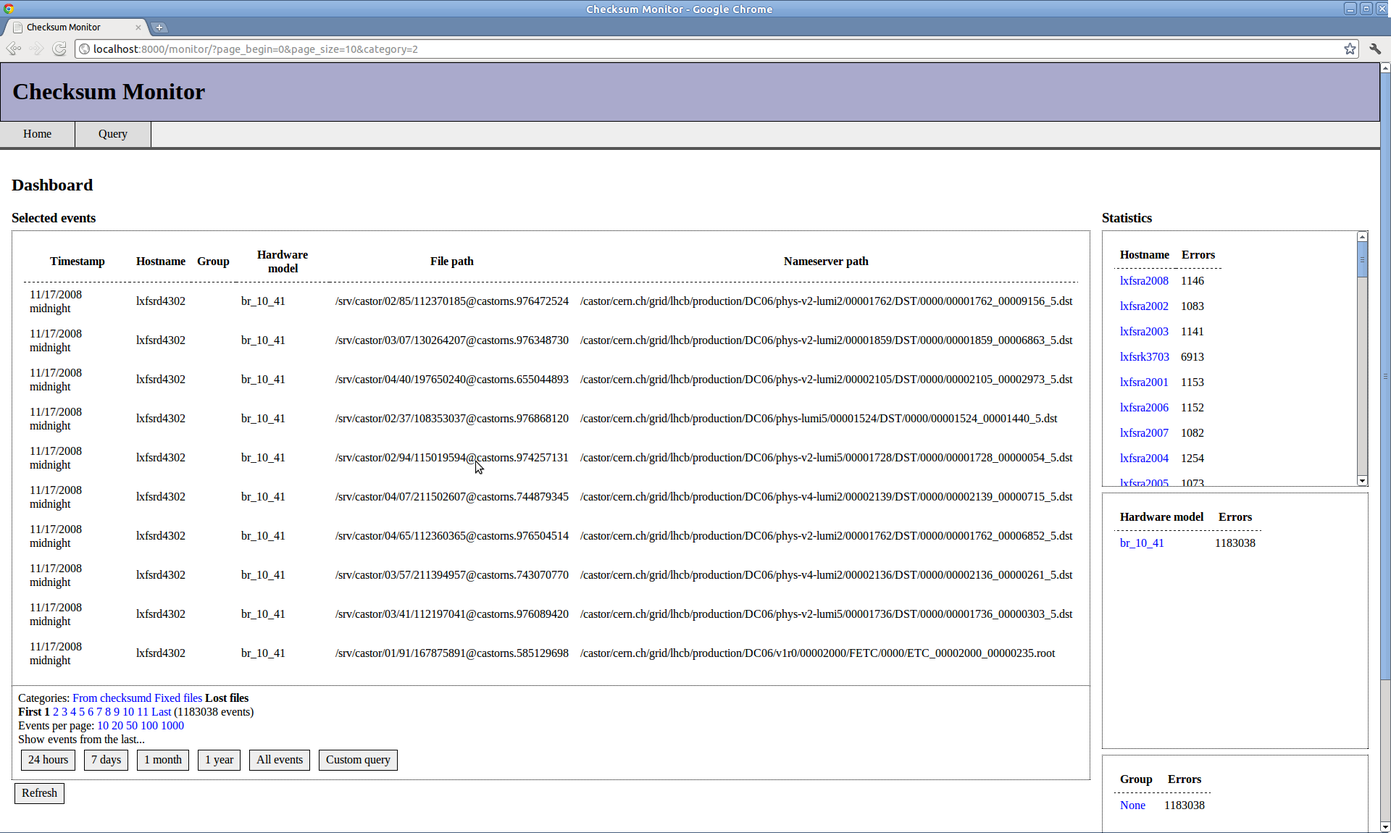
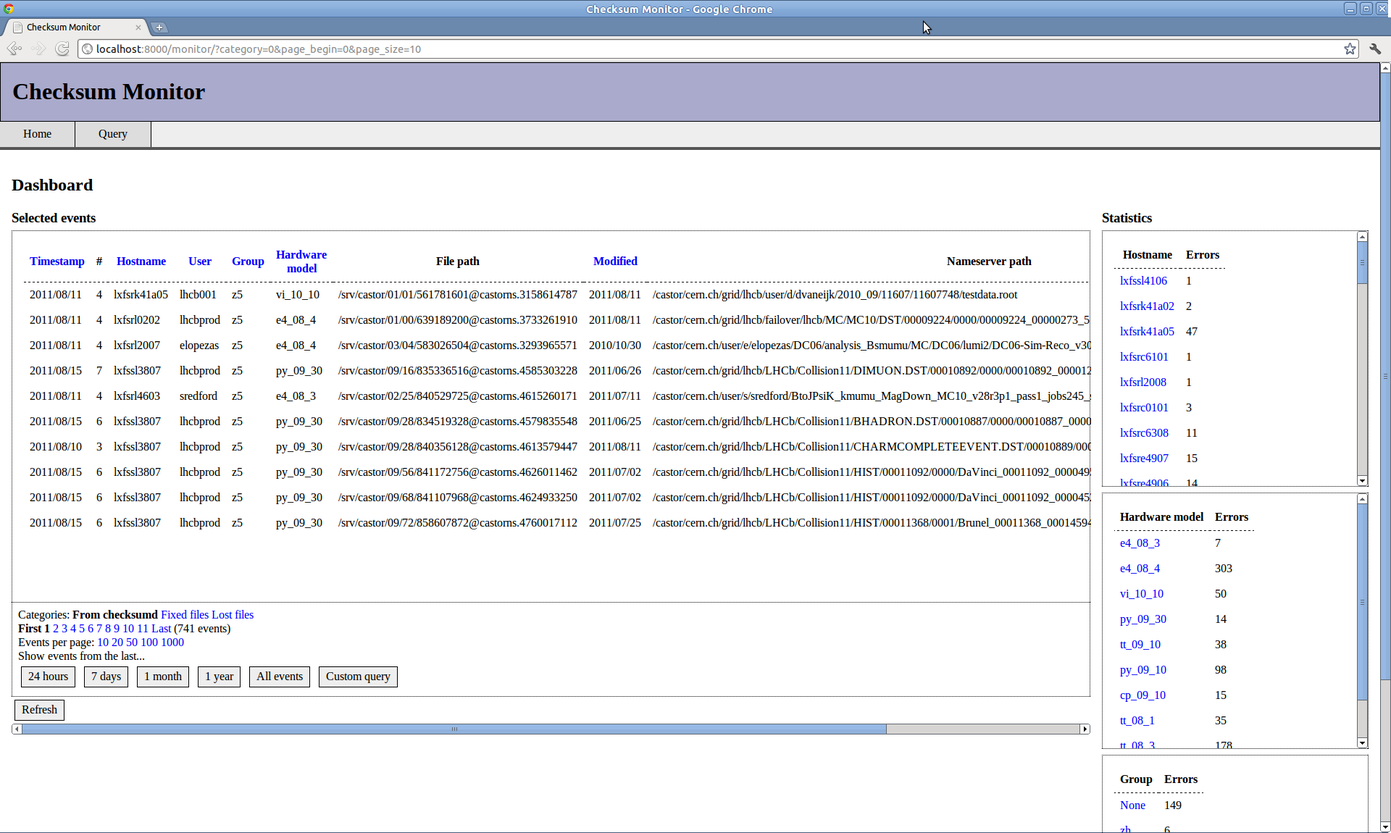
Updated report

diff --git a/implementation.tex b/implementation.tex
@@ -1,31 +1,38 @@
 \section{Implementation}
-This section will go into detail about the implementations of checksumd and checksum-monitor: classes, design patterns, etc. In addition, the integration with Lemon is briefly described.
+This section goes into detail about the implementations of checksumd and checksum-monitor: classes, design patterns, etc. In addition, the integration with Lemon is briefly described.
 
 \subsection{checksumd}
 
 \subsubsection{Disk and DiskQueue objects}
 As mentioned in section \ref{sec:checksumd_overview}, disks are kept in a queue, and each disk has a list of files as well as indices pointing to the next file. The root directory of the scan, specified when running the daemon (default /srv/castor if nothing is specified) is assumed to contain folders that are mount points for different disks. A Disk object is then created for each of these mount points, which contain the mount point, an index to the next file and a list of absolute paths of files on that disk. Whenever the next file on the disk is requested (by calling {\tt Disk.get\_next\_file()}), the file at the current index is returned, and the index is incremented.
 
-At certain intervals, the file lists are refreshed for each disk. When the file list is refreshed, a cleanup is performed first, which traverses the current file list and removes all files that no longer exist or that have been modified recently, after it was added to the list. Then, the Disk objects first get a full list of all the files on the disk (by recursively traversing the directories). Files that doesn't match certain criteria, e.g. files that was modified recently, is not included. This new list of files is then traversed. For each file, if it is in the file list already, it's ignored. If not, it's added. A hash map is used to keep track of which files are currently in the file list; this is due to the must faster lookup in a hash map than a list.
+At certain intervals, the file lists are refreshed for each disk. When the file list is refreshed, a cleanup is performed first, which traverses the current file list and removes all files that no longer exist or that have been modified recently, after they were added to the list. Then, the Disk objects first get a full list of all the files on the disk (by recursively traversing the directories). Files that don't match certain criteria, e.g. files that were modified recently, are not included. This new list of files is then traversed. For each file, if it is in the file list already, it's ignored. If not, it's added. A hash map is used to keep track of which files are currently in the file list; this is due to the much faster lookup in a hash map than a list.
 
-The DiskQueue objects are simply a list of disks, which also implements locking for thread safety. There is one main disk queue shared by all thread and each thread may call {\tt DiskQueue.get\_next\_disk()} to get the next one in queue. The queue will then first be locked, the index will be incremented, the lock is released, and a Disk instance will be returned to the caller. In addition to providing queue functionality, DiskQueue objects also has wrapper functions for counting all files on the disks, refresh all disks and so on.
+A DiskQueue object contains a list of disks, and also implements locking for thread safety. There is one main disk queue shared by all threads and each thread may call {\tt DiskQueue.get\_next\_disk()} to get the next disk in the queue. The queue will then first be locked, the index will be incremented, the lock is released, and a Disk instance will be returned to the caller. In addition to providing queue functionality, a DiskQueue object also has wrapper functions for counting all files on the disks, refreshing all disks and so on.
 
 \subsubsection{Threading}
-checksumd is mainly an IO bound application; most of the time it simply waits for IO, and the typical CPU usage when processing just one file is about 20-30\% on one core for a modern CPU. Having more than one thread on one disk will hurt performance due to more non-sequential reads, but processing multiple disks at once with one thread per disk will utilize more of the available processing power. As DiskQueue objects are thread safe, each thread may request a disk and be sure that this disk is not given to any other thread, so implementing multithreading is trivial in this case.
+checksumd is mainly an IO bound application; most of the time it simply waits for IO, and the typical CPU usage when processing just one file is about 20-30\% on one core for a modern CPU. Having more than one thread on one disk will hurt performance due to more non-sequential reads, but processing multiple disks at once with one thread per disk will utilize more of the available processing power. As DiskQueue objects are thread safe, each thread may request a disk and be sure that this disk is not given to any other thread, so the effort of implementing multithreading is trivial in this case.
 
-Each thread is represented by a ChecksumThread object which inherits the threading.Thread class. A thread lives as long as there are files left to check; once all files have been check, the threads will die and the main thread will sleep for a specified number of seconds, before the threads are spawned again to do another check. Each thread follows the following logic:
+Each worker thread is represented by a ChecksumThread object which inherits the threading.Thread class. A worker thread lives as long as there are files left to check; once all files have been checked, the worker threads will die and the main thread will sleep for a specified number of seconds, before the threads are spawned again to do another check. Each worker thread follows the following logic:
 \begin{enumerate}
 \item Get a disk from the disk queue
-\item Until disk becomes busy, or all files has been checked, perform integrity checks on the files.
-\item Release the disk, and get a new one. Go to \#2 until there are no more disks in the queue.
+\item Until disk becomes busy, or all files have been checked, perform integrity checks on the files.
+\item Release the disk, and get a new one. Go to 2. until there are no more disks in the queue.
 \item If all files have been checked, then exit. If not, sleep for a certain number of seconds before resetting the queue and checking each disk again to see if they are now free.
 \end{enumerate}
 
 \subsubsection{Logging}
-checksumd may output log entries to multiple logging destinations, like the syslog, standard output (if running in non-daemon mode) and a flat file with file errors. Because of this, a unified log manager was developed that handles output to each log. One class, LogManager, are responsible for taking in a log entry and storing it in each log. Loggers may be added to the LogManager by calling {\tt add\_logger()}.
+checksumd may output log entries to multiple logging destinations, like the syslog, standard output (if running in non-daemon mode) and a flat file with file errors. Because of this, a unified log manager was developed that handles output to each log. One class, LogManager, is responsible for taking in a log entry and storing it in each log. Loggers may be added to the LogManager by calling {\tt add\_logger()}. Figure \ref{fig:logging} shows an overview of these classes.
+
+\begin{figure}[ht]
+\centering
+\includegraphics[width=0.5\textwidth]{gfx/logging}
+\caption{Logging in checksumd}
+\label{fig:logging}
+\end{figure}
 
 \subsection{checksum-monitor}
-The checksum monitor application is developed using Django, which uses a model-view-template architecture where the model represents the actual data, and the view serves data to the template for viewing, and the template formats the actual output. The access to the database is made transparent by Django. 
+The checksum monitor application was developed using Django, which uses a model-view-template architecture where the model represents the actual data, the view serves data to the template for viewing, and the template formats the actual output. The access to the database is made transparent by Django. 
 
 There are three views:
 \begin{description}
@@ -34,11 +41,11 @@ There are three views:
 \item[query] displays the search form.
 \end{description} 
 
-The models of this application is rather simple. There is two entity classes: Host and Event. Host represents one host, with a hardware model, hostname and serial number. An Event represents one event, which can be a lost file, a checksum error, or resolved checksum error. Each event has the following fields:
+The models of this application are rather simple. There are two entity classes: Host and Event. A Host represents one host, with a hardware model, hostname and serial number. An Event represents one event, which can be a lost file, a checksum error, or a resolved checksum error. Each event has the following fields:
 \begin{description}
 \item[host] is the foreign key to the Host model.
-\item[timestamp] is the time of the event (from the log, not when it was put in the database)
-\item[filepath] is the path on the file server for the file that this event regards.
+\item[timestamp] is the time of the event (from the log, rather than when it was put in the database)
+\item[filepath] is the path on the file server for the file that this event applies to.
 \item[nspath] is the name server path of this file.
 \item[cluster] is the cluster that the host was in at the time of this event. The reason this is not in the Host model instead is due to the fact that hosts may be moved between clusters.
 \item[category] describes the type of event (lost file, checksum error or resolved checksum error)
@@ -47,8 +54,20 @@ The models of this application is rather simple. There is two entity classes: Ho
 
 All templates are stored in <django\_project\_path>/templates. There is a base template, base.html, which contains the base layout (title, menu, ...) as well as including the stylesheet, style.css. Static files, like images, stylesheets and so on, are served using the view django.views.static.serve as described by the Django documentation\cite{django}. These files are kept in the directory <django\_project\_path>/static.
 
+\subsubsection{Implementation of the index view}
+The index view is the main view showing the entries, statistics and everything else of interest. First, the query string from the URL is parsed, which contains the current state of the web page (e.g. which page have the user browsed to, the page size (in \# entries), the different filters used, sorting information (which field to sort on, ascending/descending), ...). The filters that are not None are then applied to the Event database. The events are then grouped so that there is only one entry per (hostname, path) tuple; this is done because the same error may be found several times. The number of times the error was found, along with the latest timestamp, is retrieved from the database.
+
+Finally the links on the page (e.g. the category links, page size links, sorting links, ...) is generated, and everything is then passed to the template. 
+
+\subsubsection{Log parsing}
+When the refresh command is issued, the log directories are scanned and the events are put in the local relational database. In addition, some information is retrieved using "nsls" and similar queries.
+
+First, all the existing hosts are retrieved from the database, so that there is no need to query the host table for every entry to check if we need to add a new host. Then, a dictionary is set up that maps the existing entries, by selecting all the objects from the event table. The tuple (timestamp, hostname, path) is assumed to be unique. This is very fast compared to doing a select operation per entry in the log files. This way, the log parser can continue where it left off if it is interrupted, and adding new log entries will take less time once the bulk has been added already.
+
+For inserting into the database, threading is utilized because of rather large delays due to the queries to external servers. Each thread will be given a portion of the rows from the logs. For every entry in the thread's set of rows, the thread will do a lookup in the dictionary. If the entry is there (i.e. the entry's (timestamp, hostname, path) tuple exists in the dictionary), it will skip the entry. If not, it will do an nsls query to find the time it was modified, the user and group of the files and so on. Finally, the event will be added to the database.
+
 \subsection{Lemon integration}
 \label{sec:lemon_integration}
 Monitoring of checksumd summaries are done using Lemon. More specifically, the metric ParseExtract in the sensor ParseLog was used. ParseExtract parses a log file, attempts to find a match for the regular expression given to the metric, and extracts specified values from each line. 
 
-In the case of checksumd, the following strategy is used: Every hour, the sensor will get the matching entries from the last hour, which should be either 0 or 1 entry as long as the reporting rate from the daemon is larger than one hour. It extracts the key numbers (\# files scanned, \# bad checksums found, ...) and stores them in the same order that they are found. This is not a problem because the key values will always be output in the same order. This data are then sent to the Lemon server by the agent.
+In the case of checksumd, the following strategy is used: Every hour, the sensor will get the matching entries from the last hour, which should be either 0 or 1 entry as long as the reporting rate from the daemon is larger than one hour. It extracts the key numbers (number of files scanned, number of bad checksums found, and so on) and stores them in the same order that they are found. This is not a problem because the key values will always be output in the same order. This data is then sent to the Lemon server by the agent.

diff --git a/introduction.tex b/introduction.tex
@@ -1,16 +1,15 @@
 \section{Introduction}
-With an increase of storage space requirements exceeding 15 peta bytes per year at CERN, the number of disks currently deployed at CERN is measured in the thousands, which means that data corruption is not something that is unheard of. At the same time, performing integrity check on production servers means sharing resources with the users of the servers, which results in performance hits for both the integrity check and the users of the system. 
+With an increase of storage space requirements exceeding 15 peta bytes per year at CERN, the number of disks currently deployed at CERN is measured in the thousands, which means that data corruption is not something that is unheard of. At the same time, performing integrity checking on production servers means sharing resources with the users of the servers, which may result in performance hits for the users of the system. 
 
-The goal of this project was first and foremost to develop a robust integrity checking daemon for the disk servers at CERN with minimal performance impact on current users, but at the same time perform better than the previous attempt on such a daemon, which was unacceptably slow. I developed improved ways of choosing which file to check next, based on which mount point the file is on, as well as improving the way the daemon checks if the system is busy or not. I also implemented threading for increased performance.
+The goal of this project was first and foremost to develop a robust integrity checking daemon for the disk servers at CERN with minimal performance impact on current users, while at the same time performing better than the previous attempt on such a daemon, which was unacceptably slow. I developed improved an improved method for choosing which file to check next, based on which mount point the file resides, as well as improving the way the daemon checks if the system is busy or not. I also implemented threading for increased performance. The daemon outputs the checksum errors to the syslog and an error log chosen by the user, and it also produces summary statistics for how many files were checked, how many bad checksums were found, and so on. 
 
-In addition to the checksum daemon itself, I also developed a Django web application for monitoring events (i.e. checksum errors) as they happen, allowing the administrators to locate which server or which cluster, or which machine model that causes problems in order to replace faulty hardware etc. The daemon also produces summary statistics for how many files was checked, how many bad checksums were found, and so on; this data is used by a Lemon sensor for integration with the central monitoring system at CERN.
+In addition to the checksum daemon itself, I developed a Django web application for monitoring events (i.e. checksum errors) as they happen, allowing the administrators to locate which server or which cluster, or which machine model causes problems in order to replace faulty hardware, etc. As an additional feature, this monitor also parses logs of resolved checksum errors, as well as files lost due to disk and server crashes, etc. A Lemon metric instance was also configured to parse the checksumd summaries.
 
 \subsection{Background}
-In November 2009, a first version of a checksum daemon called "checksumd" was developed by the DSS group at the IT department at CERN. This daemon is used as a basis for my work, although it's heavily modified. For completeness, I will here give a brief overview of the CASTOR system and Django, both of which are relevant to this project.
+In November 2009, the first version of a checksum daemon called "checksumd" was developed by the DSS group in the IT department at CERN. This daemon is used as a basis for my work, although it's heavily modified. For completeness, I will here give a brief overview of the CASTOR system and Django, both of which are relevant to this project.
 
 \subsubsection{CASTOR Overview}
-
-CASTOR (CERN Advanced STORage manager) is a hierarchical storage management system used at CERN\cite{castor}, designed to be able to handle the enormous amounts of data produced every year (as per 2011, the storage requirements grows by about 15 peta bytes every year). 
+CASTOR ({\bf C}ERN {\bf A}dvanced {\bf STOR}age manager) is a hierarchical storage management system used at CERN\cite{castor} designed to handle the enormous amounts of data produced every year (as per 2011, the storage requirements grow by about 15 petabytes every year). 
 
 \begin{figure}[ht]
 \centering
@@ -19,18 +18,20 @@ CASTOR (CERN Advanced STORage manager) is a hierarchical storage management syst
 \label{fig:castor}
 \end{figure}
 
-There are two kinds of storage media mainly in use at CERN: Magnetic tapes and disks. Tapes are cheap and energy efficient, but slow; disks are more expensive and always uses energy, even when not read, but they are fast. This has been combined at CERN into a hierarchical system where tapes are used as the main media of storage, but disks are used as a cache. When a user requests a file, and the file is not on any of the disks it will be retrieved from the tapes, put on one of the disk servers, and served to the user. If the same file is requested by another user shortly after, it can be fetched directly from disk, eliminating the need to scan the tape drives.
+There are two kinds of storage media mainly in use at CERN: Magnetic tapes and disks. Tapes are cheap and energy efficient, but slow; disks are more expensive and always use energy, even when not in use, but they are fast. This has been combined at CERN into a hierarchical system where tapes are used as the main media of storage, but disks are used as a cache. When a user requests a file, and the file is not on any of the disks it will be retrieved from the tapes, put on one of the disk servers, and served to the user. If the same file is requested by another user shortly after, it can be fetched directly from disk, eliminating the need to scan the tape drives.
 
-CASTOR provides transparent access to the tape storage by only letting users store and read files to/from the disk cache. Although the fact that there is a tape back-end is not completely transparent due to magnitudes of difference in latencies for fetching files not in the disk cache, no user has to explicitly store data to the tapes as this is handled by the CASTOR Stager. Another important component is the name server, which keeps track of the directory structure and file names.
+CASTOR provides transparent access to the tape storage by only letting users store and read files to and from the disk cache. Although the fact that there is a tape back-end is not completely transparent due to magnitudes of difference in latencies, depending on wether the file is in the disk cache or not, no user has to explicitly store data to the tapes as this is handled by the CASTOR Stager. 
+
+Another important component is the name server, which keeps track of the directory structure and file names. The name server may also contain checksums for the files contained on the disk servers, which may be used as an alternative way of checking the integrity for files that do not have a checksum stored in their extended attributes.
 
 \paragraph{The need for integrity checking}
-The files on the tapes and disks may for various reasons become corrupted. It could happen due to an error while transferring from the tape to the disk, while it's sitting on the disk due to a physical flaw on the disk, and so on. It's important to catch these errors so that if a file stored in one of the disks are getting corrupted, it can be restored from a good tape copy. It's also useful to see if there are patterns of corrupted files, e.g. if there is a specific machine or cluster that has a higher than average error rate due to hardware errors, so that this hardware can be replaced.
+The files on the tapes and disks may for various reasons become corrupted. It could happen due to an error while transferring from the tape to the disk, while it's sitting on the disk due to a physical flaw on the disk, and so on. It's important to catch these errors so that if a file stored in one of the disks is getting corrupted, it can be restored from a good tape copy. It's also useful to see if there are patterns of corrupted files, e.g. if there is a specific machine or cluster that has a higher than average error rate due to hardware errors, so that this hardware can be replaced.
 
-CASTOR already stores an Adler-32 checksum for all files. Typically this checksum is stored in extended file attributes, although it can also be stored in the name server. There is already some integrity checking in place, e.g. when a file is transferred from tape to disk; however, there is currently no system running for detecting checksum errors that occurs during the time a file remains on the disk server. With literally thousands of disks, such errors are not unreasonable. 
+CASTOR already stores an Adler-32 checksum for all files. Typically this checksum is stored in extended file attributes, although it can also be stored in the name server. There is already some integrity checking in place, e.g. when a file is transferred from tape to disk; however, there is currently no system running for detecting checksum errors that occurs during the time a file remains on the disk server. With literally thousands of disks, such errors may not be uncommon. 
 
 \subsubsection{Django}
-Django is a web application development framework written in Python that aims to handle many of the tedious tasks with web development for you, like URL parsing, session management, database queries and so on.\cite{django} It is based on a model-template-view architecture, where a model is a class with fields mapped to columns in a relational database, the template is the HTML code with support for a special template language used to insert data from views, and the view is the component that retrieves data from the model, and serves it to the template, possibly with additional logic added. The models and views are both written in Python.
+Django is a web application development framework written in Python that aims to handle many of the tedious tasks related to web development, such as URL parsing, session management, database queries and so on.\cite{django} It is based on a model-template-view architecture, where a model is a class with fields mapped to columns in a relational database, the template is the HTML code with support for a special template language used to insert data from views, and the view is the component that retrieves data from the model, and serves it to the template, possibly with additional logic added. The models and views are both written in Python.
 
 \subsubsection{Lemon}
-Lemon stands for LHC Era MONitoring and is a system used for monitoring of computing devices at CERN. The system is built up by sensors (which in turn has metrics), agents and a server (or a Central Measurement Repository). Sensors retrieve data using their defined metrics (which can be a number (e.g. number of files in /tmp), a tuple (e.g. statistics from checksumd) or a matrix), and the agent retrieves the data from the sensors and sends it to the server. 
+Lemon stands for LHC Era MONitoring and is a system used for monitoring computing devices at CERN. The system is built up by sensors (which in turn have metrics), agents and a server (or a Central Measurement Repository). Sensors retrieve data using their defined metrics which can be a single value (e.g. number of files in /tmp), a tuple (e.g. statistics from checksumd) or a matrix. The agent then retrieves the data from the sensors and sends it to the server. 
 

diff --git a/functionality.tex b/functionality.tex
@@ -9,9 +9,9 @@ The project consists of two main parts:
 In addition there is the Lemon integration, but this was purely a configuration task. Please see section \ref{sec:lemon_integration} for details. 
 
 \subsection{Overview of architecture}
-An overview of the project can be seen in figure \ref{fig:complete_overview}. The checksumd program runs as a separate application on each disk server. For each file, it computes a checksum, and if there is an error it outputs this to an error log that resides in a folder in AFS. These entries consist of the filename, file size, the checksums, the path returned from the name server, the specifications of the machine (hardware model, hostname, etc.) and more. The same entry is also put in the syslog. 
+An overview of the project can be seen in figure \ref{fig:complete_overview}. The checksumd program runs as a separate application on each disk server. For each file, it computes a checksum, and if there is an error it outputs this to an error log that resides in a folder in AFS (Andrew File System, a distributed file system used at CERN\cite{afs}). These entries consist of the filename, file size, the checksums, the path returned from the name server, the specifications of the machine (hardware model, hostname, etc.) and more. The same entry is also put in the syslog. 
 
-The checksum-monitor Django application parses the error logs that was stored on AFS. This can be set up as a cron job, or done manually through the web interface. The application will then parse the logs, organize the entries in a relational database, and display it to the clients according to their query preferences.
+The checksum-monitor Django application parses the error logs that were stored on AFS. This can be set up as a cron job, or done manually through the web interface. The application will then parse the logs, organize the entries in a relational database, and display it to the clients according to their query preferences.
 
 With regular intervals (e.g. every 24 hours) a summary is also written to the syslog. This summary consists of, among other things, the aggregated numbers for the number of files checked, bad checksums, good checksums, etc. This is then parsed by the Lemon sensor, which is passed to the agent which passes it to the central Lemon database.
 
@@ -24,15 +24,15 @@ With regular intervals (e.g. every 24 hours) a summary is also written to the sy
 
 \subsection{checksumd}
 \label{sec:checksumd_overview}
-The checksumd daemon is implemented as a standalone application in Python. In principle, it can be used for other types of machines than CASTOR disk servers as well, but that is not within the scope of this project. This section will give an overview of the daemon.
+The checksumd daemon is implemented as a standalone application in Python. In principle, it can be used for other types of machines than CASTOR disk servers, but that is not within the scope of this project. This section gives an overview of the daemon.
 
 \subsubsection{Daemon overview}
 
-The process by which the daemon checks files are first by building a queue of all the disks. Each disk has a list of files to be checked (all files under the specified directory, that are not recently modified), and each has an index that points to the next file on the disk. Each of the mount points is assumed to be on a separate disk. At regular intervals, the main thread refreshes the file lists by querying for all files again, and adding new ones and removing deleted ones. 
+The process by which the daemon checks files is first by building a queue of all the disks. Each disk has a list of files to be checked (all files under the specified directory, that are not recently modified), and each has an index that points to the next file on the disk. Each of the mount points is assumed to be on a separate disk. At regular intervals, the main thread refreshes the file lists by querying for all files again, adding new ones and removing deleted ones. 
 
-checksumd is built with threading in mind, and even when only one thread is specified at the command line, a new thread will be spawned to do the actual integrity checking work. The main thread are responsible for housekeeping (e.g. keeping the file list updated and write summaries). This way, housekeeping will not interfer with the actual integrity check operations. 
+checksumd is built with threading in mind. There are two types of threads: the main thread, and worker threads. The worker threads do the actual integrity checks, while the main thread is responsible for housekeeping (e.g. keeping the file list updated and writing summaries to the log). The number of worker threads can be specified on the command line.
 
-Until every file on each disk have been checked, each thread will grab one disk, check if it is busy, and if it is not, compute the checksum of the files. If the thread detects that the disk becomes busy while checking, it will complete the current file it is working on and go check the next disk. If no more disks are remaining in the queue, the threads will sleep for a specified amount of time before attempting to check again, continuing where they left off. The process is modelled in figure \ref{fig:checksum_process}.
+Until every file on each disk has been checked, each thread will grab one disk, check if it is busy, and if it is not, compute the checksum of the files. If the disk becomes busy while checking, the thread working on that disk will complete the current file it is working on and move on to the next disk. If no more disks are remaining in the queue, the threads will sleep for a specified amount of time before attempting to check again, continuing where they left off. The process is modelled in figure \ref{fig:checksum_process}.
 
 \begin{figure}[ht]
 \centering
@@ -42,9 +42,11 @@ Until every file on each disk have been checked, each thread will grab one disk,
 \end{figure}
 
 \subsection{checksum-monitor}
-A monitor for individual events (errors) and statistics over multiple events have been developed. In addition to displaying the checksum errors from checksumd, it may also display a list of resolved events (e.g. events that the user has been notified about but that was impossible to fix), as well as "lost" files, that is, files that were lost on disk servers due to crashes or other events.  The monitor also supports, in addition to listing every event, searching over a specified time frame, on host name, hardware model, cluster name, and so on. It also displays statistics like counting events per host name, hardware model, and user group. The monitor was fully developed in Python using Django. 
+A monitor for individual events (errors) and statistics over multiple events has been developed. In addition to displaying the checksum errors from checksumd, it may also display a list of resolved events (e.g. events that the user has been notified about but that were impossible to fix), as well as "lost" files, files that were lost on disk servers due to crashes or other events.  The monitor also supports, in addition to listing every event, searching over a specified time frame, on host name, hardware model, cluster name, and so on. It also displays statistics like counting events per host name, hardware model, and user group. The monitor was fully developed in Python using Django. 
 
-A screenshot from the web interface is shown in figure \ref{fig:monitor-index}. Statistics are shown to the right, grouped on hostname, hardware model and user group. Events can be filtered based on age (e.g. less than 24 hours, less than a week, ...), on hostname (by clicking each hostname), by hardware model, or group. Since there may be a lot of errors in e.g. the Lost files category, paging was also implemented, where only a subset of the events are displayed at once. Up to 1000 events can be shown at one page. To switch category, one can click "From checksumd" for checksumd errors, "Fixed" for resolved errors and "Lost files" for files from the lost files logs.
+A screenshot from the web interface is shown in figure \ref{fig:monitor-index}. Statistics are shown to the right, grouped on hostname, hardware model and user group. Events can be filtered based on age (e.g. less than 24 hours, less than a week, etc) on hostname (by clicking each hostname), on hardware model, or on group. Since there may be a lot of errors (in e.g. the Lost files category), paging was also implemented, where only a subset of the events are displayed at once. Up to 1000 events can be shown on one page. To switch categories, one can click "From checksumd" for checksumd errors, "Fixed" for resolved errors and "Lost files" for files from the lost files logs. 
+
+The entries can be sorted by the fields with a blue color in the header. Clicking the header will sort by that field, and clicking it again will reverse the sorting direction. 
 
 \begin{figure}[ht]
 \centering

diff --git a/configuration.tex b/configuration.tex
@@ -3,7 +3,10 @@
 \subsection{checksumd}
 All of checksumd's configuration is done by command line arguments. checksumd can be run in two modes: as a daemon, or as a regular command line tool. The available command line arguments are listed in table \ref{tab:cmdlineargs}.
 
-\begin{table}[ht]
+
+A default configuration file, /etc/sysconfig/checksumd is shipped with the software package containing the daemon. This is a basic shell script that puts the command line arguments into an environment variable \$CHECKSUMD\_OPTIONS that is used by checksumd's runscript (typically /etc/init.d/checksumd). E.g., setting \$CHECKSUMD\_OPTIONS to -{}-maxwait 90, causes the runscript to run "checksumd -{}-maxwait 90 -{}-daemon" (daemon mode is implied by the init.d script).
+
+\begin{table}[H]
 \begin{tabular}{lp{10cm}}
 \hline
 {\bf Argument}              & {\bf Description}\\
@@ -14,9 +17,9 @@ All of checksumd's configuration is done by command line arguments. checksumd ca
 {\tt -{}-checkns}             & Also check the content checksum against the one stored in the name server.\\
 {\tt -{}-throttlesleep N}     & Sleep for N seconds if all disks are found to be busy (or done), before doing another busy check. Default: 10 sec.\\
 {\tt -{}-maxruntime N}        & Terminate the program after N seconds. Default: infinite\\
-{\tt -{}-maxwait N}           & If disks are busy and has M open files, force a check after $N\cdot 2^{M-1}$ seconds. Default: -1 (infinity)\\
+{\tt -{}-maxwait N}           & If disks are busy and have M open files, force a check after $N\cdot 2^{M-1}$ seconds. Default: -1 (infinity)\\
 {\tt -{}-minrepeattime N}     & If checking all files takes T < N seconds, sleep for N-T seconds before checking them again. Default: 24 hours\\
-{\tt -{}-setchecksumifnone}   & Enable in order to set the checksum of files that does not have one.\\
+{\tt -{}-setchecksumifnone}   & Enable in order to set the checksum of files that do not have one.\\
 {\tt -{}-modifyignore N}      & Ignore files that have been modified less than N seconds ago. Default: 24 hours\\
 {\tt -{}-errorfile DIR}       & Save error logs under the directory DIR. Filenames are given as {\tt checksum\_errors\_<hostname>.log}.\\
 {\tt -{}-nthreads N}          & Use N worker threads for integrity checking. This does not include the main thread. Default: 2\\
@@ -31,19 +34,37 @@ All of checksumd's configuration is done by command line arguments. checksumd ca
 \label{tab:cmdlineargs}
 \end{table}
 
-A default configuration file, /etc/sysconfig/checksumd is shipped with the RPM containing the daemon. This is a basic shell script that puts the command line arguments into an environment variable \$CHECKSUMD\_OPTIONS that is used by checksumd's runscript (typically /etc/init.d/checksumd). E.g., setting \$CHECKSUMD\_OPTIONS to -{}-maxwait 90, causes the runscript to run "checksumd -{}-maxwait 90 -{}-daemon" (daemon mode is implied by the init.d script).
-
 \subsection{checksum-monitor}
-The checksum monitor is more or less a standard Django application, and thus its configuration can be found in <django\_project\_root>/settings.py. In addition to the standard settings like database paths and passwords, the following values must be configured properly:
-\begin{itemize}
-\item MONITOR\_ROOT: Points to the Django project root directory, e.g. /www/checksum-monitor.
-\item APP\_ROOT: Relative path from MONITOR\_ROOT to where the application itself (views.py, models.py, ...) is contained, e.g. /monitor/.
-\item Log paths; tuples of (PATH, EXT) where PATH points to the log directory described below, and EXT is the file extension of the logs in that file (e.g. ".log"):
-\begin{itemize}
-\item log\_path: PATH points to the log directory where error logs from checksumd is stored.
-\item fixed\_checksums\_path: PATH points to the log directory where resolved checksum errors are stored.
-\item lost\_files\_path: PATH points to the log directory where lost file logs are stored.
-\end{itemize}
-\end{itemize}
+The checksum-monitor main settings file is "settings.py" in the root directory of the checksum-monitor project. The important configuration variables are
+\begin{description}
+\item[DEBUG] enables or disables debug mode. It may be most reasonable to set this to False for security reasons. In addition, with debug mode enabled, a history of all queries is stored, so that the application in effect leaks memory. This is problematic because it will lead to a crash after some time.
+\item[DATABASES] has the database information: type of database (e.g. SQLite or MySQL), database name and path, username/password and so on. As default, it is set up with MySQL on localhost with username root without a password.
+\item[MONITOR\_ROOT] is the root directory of the checksum-monitor project. This must be set.
+\item[log\_path] is the (log path, extension) tuple for the checksumd error logs.
+\item[fixed\_checksums\_path] is the (path, extension) tuple of the logs containing resolved checksum errors.
+\item[lost\_files\_path] is the (path, extension) tuple of the logs containing lost files.
+\item[stager\_hosts] is a list of the stager hosts used for checking if a file is lost.
+\end{description}
 
-After the configuration is set up properly, there are two ways of refreshing the database of events: Running "python manage.py refresh" from the project root directory, or using the Refresh button in the web interface. All files in the specified directories will then be read and parsed, and rows will be inserted into the database. 
+After the database is set up and the settings are updated, the tables can be created automatically:
+
+{\tt <MONITOR\_ROOT>/manage.py syncdb} 
+
+All the required tables will then be set up with the proper keys and datatypes. The web server can then be set up to listen on port 80 using
+
+{\tt <MONITOR\_ROOT>/manage.py runserver 0.0.0.0:80} 
+
+However, the recommended way is using a third-party web server like for instance apache, as the built-in web server is not intended for production use.
+
+\subsubsection{Refreshing the database}
+When new log entries are added, the database must be refreshed (logs must be parsed again) for the entries to show up in the monitor. There are two ways:
+\begin{enumerate}
+\item Using the web interface's "Refresh" link.
+\item Calling the refresh command directly through manage.py, e.g. through a cron job.
+\end{enumerate}
+
+The second method may be the preferred one because it ensures that many people don't call the refresh command at once. The syntax is
+
+{\tt <MONITOR\_ROOT>/manage.py refresh <category>} 
+
+where <category> can be "checksumd", "fixed" or "lostfiles". The log directory for the specified category will then be scanned and new entries will be added.

diff --git a/abstract.tex b/abstract.tex
@@ -1,3 +1,3 @@
 \begin{abstract}
-For storing physics data from the experiments at CERN, a hierarchial system of tapes and disks are used where tapes are the main media of storage, while disks are used as a cache. Making sure that the files on the disks are not corrupted are important in order to prevent bad files from being written back to tape. Typically this is done by computing a checksum of the files and compare it with a stored checksum. In my project I implement a checksum daemon based on previous work that aims to continuously check files for corruption and provide logs for external applications, with minimal impact on performance of the disk servers. I also implemented monitoring through LeMon (LHC Era MONitoring) that gives general statistics, e.g. files checked, etc., and I also developed a monitoring application in Django for more detailed statistics on a per-error basis.
+For storing physics data from the experiments at CERN, a hierarchial system of tapes and disks are used where tapes are the main media of storage, while disks are used as a cache. Making sure that the files on the disks are not corrupted is important in order to prevent bad files from being written back to tape. Typically this is done by computing a checksum of the files and comparing it with a stored checksum. In my project I implement a file integrity checking daemon based on previous work that aims to continuously check files for corruption and provide logs for external applications, with minimal impact on performance of the disk servers. I also implement monitoring through Lemon ({\bf L}HC {\bf E}ra {\bf Mon}itoring) that gives general statistics, e.g. files checked, etc., and I also develop a monitoring application in Django for more detailed statistics on a per-error basis.
 \end{abstract}

diff --git a/references.tex b/references.tex
@@ -2,4 +2,5 @@
 \bibitem{castor} CASTOR web site\\ http://castor.web.cern.ch/
 \bibitem{django} Django web site\\ https://www.djangoproject.com/
 \bibitem{lemon} Lemon web site\\ http://lemon.web.cern.ch/
+\bibitem{afs} Andrew File System\\http://services-old.web.cern.ch/services-old/afs/afsguide.html
 \end{thebibliography}
